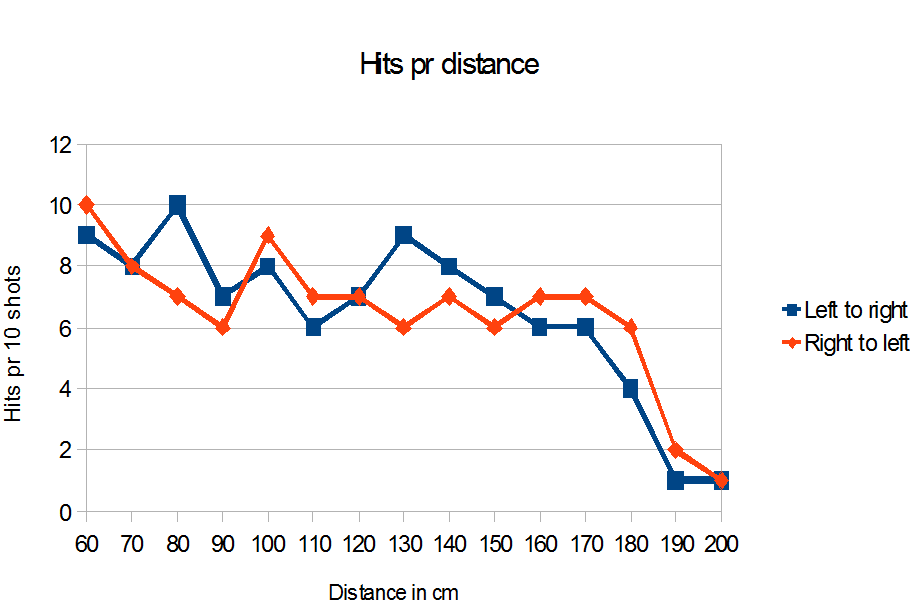
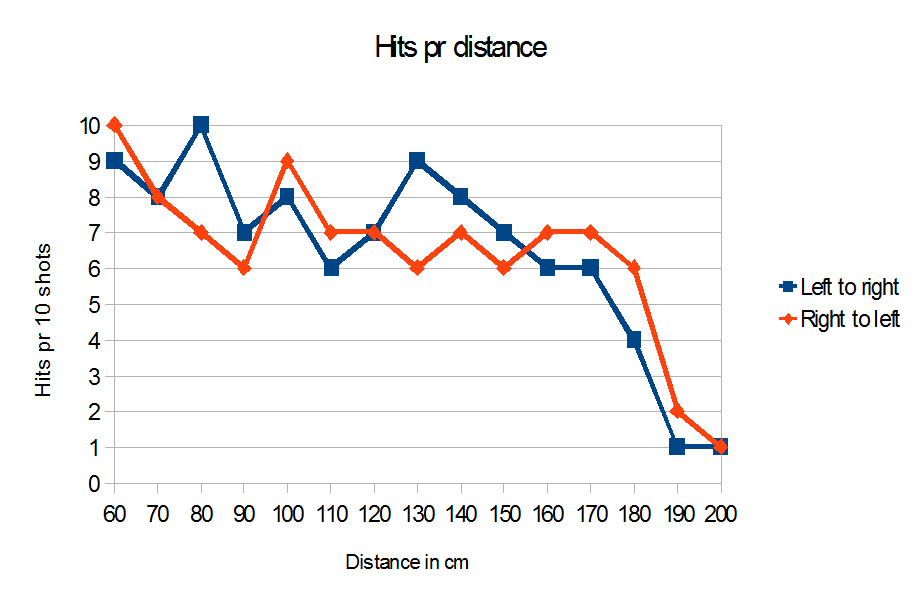
Test section: DONE

diff --git a/report/tex/validation/turret_test.tex b/report/tex/validation/turret_test.tex
@@ -1,5 +1,13 @@
 \section{Turret Test}
 The turret was tested using a circular target moving at $0,19$ $m/s$ in a straight line. 
-The target was moved away from the turret in 10-cm increments, starting at 60 cm, and two test shots were performed at each distance in both left-to-right and right-to-left direction, from the perspective of the turret. A hit or miss was noted, with no regard as to where on the target the projectile hit. The hit ratio is shown below, as a function of distance:
+The target was moved away from the turret in 10-cm increments until the turret was unable to hit the target. Starting at 60 cm, 10 test shots were performed at each distance in both left-to-right and right-to-left direction, from the perspective of the turret. A hit or miss was noted, with no regard as to where on the target the projectile hit. The hit ratio is shown below, as a function of distance:
 
-%TODO moar data. Current is not conclusive.
+\begin{figure}
+	\includegraphics[scale=0.5]{img/test.png}
+	\caption{Systematic test data}
+	\label{systest}
+\end{figure}
+
+As can be seen above, the turret consistently hits the target more than half the time on the 60 - 180 cm range, with the highest hit to miss ratio at the beginning. After 180 cm, which was the predicted maximum range, the turret hits the target only a few times. The accuracy of the turret fluctuates, but it is seemingly more precise early on, which makes sense given that inaccuracies in placement of Kinect relative to turret will become greater the further away the target is moved. Overall the left to right moving target is hit more consistently than the right to left moving target (66\% relative to 64\%), however the right to left moving target is more precise in the 160 cm to 180 cm range. This, we believe, is due to the difference in surface on the two side of the target, with the side facing the turret in the right to left direction being easier to identify precisely at that distance.
+
+The overall hit percent in both directions is 65\%.
